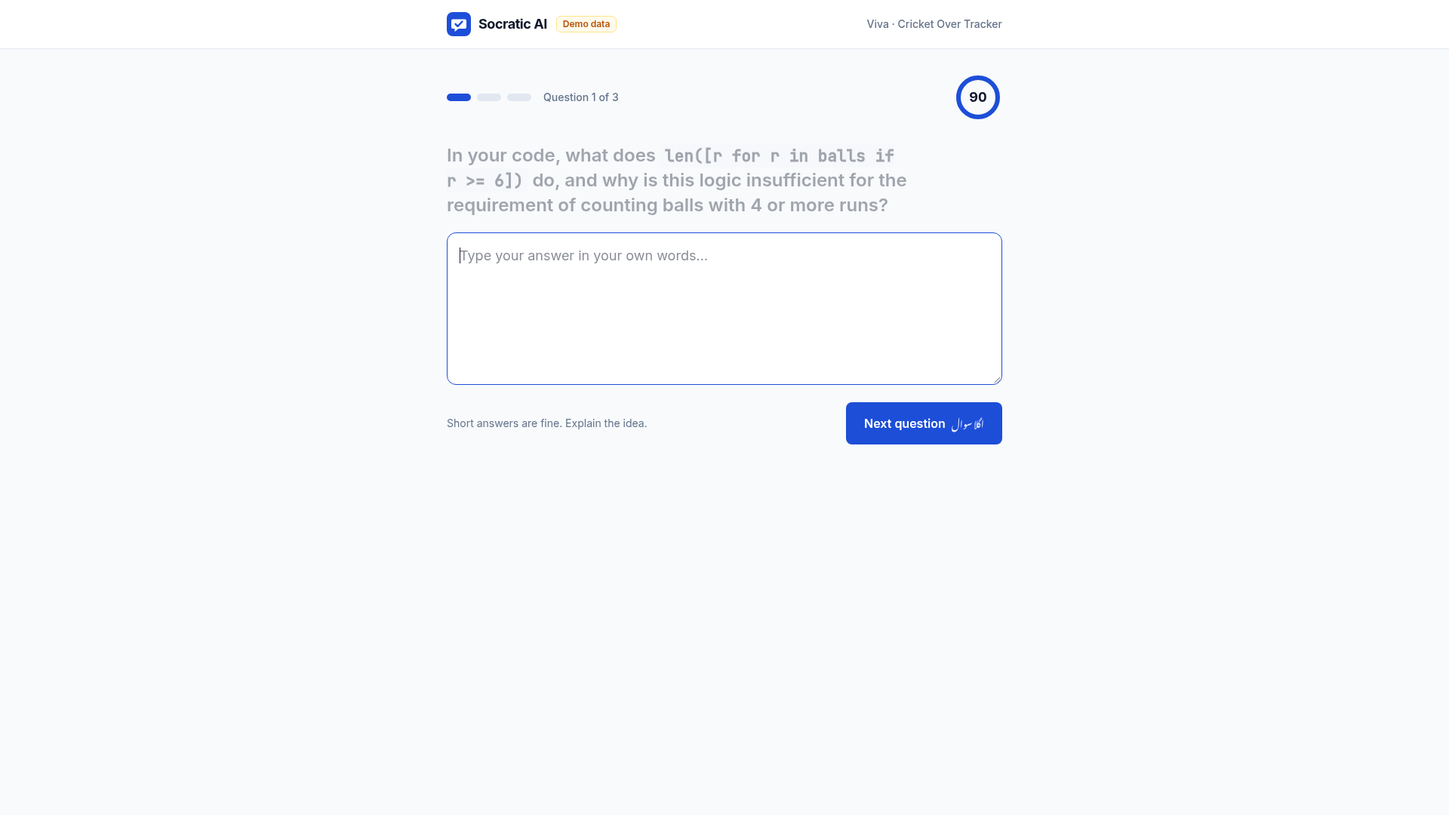
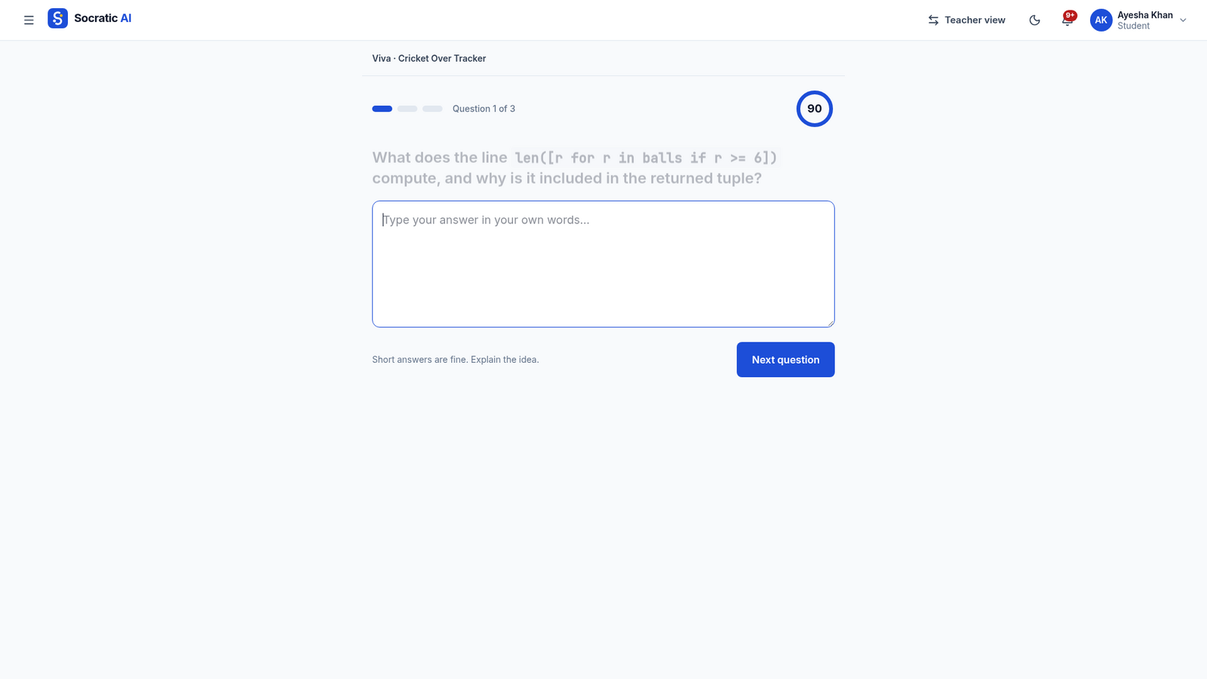
README: rewritten for the current platform, with fresh screenshots
Covers the lecture slides, Study with Ustaad, the new navigation and dark mode,
how it works and how it's tested; the fictional-data disclosure now lives here.
Landing screenshots retaken with the new instructors.

diff --git a/README.md b/README.md
@@ -1,6 +1,12 @@
-# Socratic AI: Strong Fundamentals in the Age of AI
+<p align="center"><img src="docs/brand/socratic-ai-mark.svg" width="72" height="72" alt="Socratic AI logo"></p>
 
-**Live demo: https://socratic-ai-pk.vercel.app** · no sign-up · [health check](https://socratic-ai-pk.vercel.app/api/health)
+<h1 align="center">Socratic AI</h1>
+<p align="center"><b>Strong Fundamentals in the Age of AI</b></p>
+
+<p align="center">
+  <b><a href="https://socratic-ai-pk.vercel.app">socratic-ai-pk.vercel.app</a></b> · open it and click <b>Try as student</b> or <b>Try as teacher</b>, no sign-up ·
+  <a href="https://socratic-ai-pk.vercel.app/api/health">live health check</a>
+</p>
 
 One organized learning platform for students and teachers: courses, weekly material, assignments, coding labs, quizzes and marks in one place, with the AI mentor **Ustaad** making sure every mark reflects real understanding.
 
@@ -12,89 +18,68 @@ Built for the **Capital Youth Expo 2026 Hackathon (04-HK), Track 1: Education**,
 
 ---
 
-## Try it in 60 seconds
+## A tour in 60 seconds
 
-1. Open **https://socratic-ai-pk.vercel.app** and click **Try as student**. You get your own private copy of a demo institution in about a second, as Ayesha, a computer science student with a full semester.
-2. Her home page brings every course together: what's due next across all courses, recently marked work, course progress and news from every teacher.
-3. Open a course (say **Data Mining**) to read the week's notes, then open a lab. Try pasting code (it's blocked, and the platform tells you why), click **Run my code**, and ask **Ustaad** for a hint.
-4. Click **Submit**: the hidden tests run, then Ustaad asks **3 timed questions about your own work**. Try a **timed quiz** or a **written answer** too: every task is solved live in the platform, nothing is uploaded.
-5. Or start with **Try as teacher**: courses, gradebook, announcements, an assignment builder, and a report for every submission.
+1. Open **https://socratic-ai-pk.vercel.app** and click **Try as student**. In about a second you're Ayesha, a computer science student with five courses and a semester's work.
+2. **Home** shows only what matters today: a to-do list by due date across every course, and notifications (new work, marks, announcements). Every course is one click away in the sidebar under **My courses**.
+3. Open **Data Mining → Lectures → Lecture 4**. The lecture opens with the teacher's own slide deck. Ask **Study with Ustaad** to *explain this slide*: it reads the slide on screen and answers in English or Roman Urdu.
+4. Open a lab. Pasting is blocked (and the page says why), **Run my code** runs Python in your browser, and Ustaad gives hints and questions, never answers. Drag the edge of Ustaad's panel to make it wider.
+5. **Submit**: hidden tests run, then Ustaad asks **3 timed questions about your own code**. Try a **timed quiz** or a **written answer** too.
+6. Switch to **Teacher view** (top bar): courses, a gradebook, an assignment builder, and for every submission a report with a replay of how the work was made, flags in plain words and the viva transcript.
 
-Everything in the demo (the institution, people and their work) is fictional and labelled **Demo data**. Classmates' past submissions come from **simulated students** (strong, struggling and copying personas) who worked through the real platform: the platform's own viva questions, AI scoring and flag rules produced every score and flag you see. They show how the platform behaves; they are not measured results.
+The top bar also has a **light/dark** switch, and the sidebar folds into an icon rail.
 
 ---
 
 ## The problem
 
-- **Courses are scattered.** A typical Pakistani university course lives in a WhatsApp group, an LMS that only holds PDFs, emailed assignments, a separate quiz tool and a teacher's spreadsheet of marks. Students miss deadlines and announcements; teachers repeat the same work in five places.
-- **AI writes the homework.** A student can paste any lab into ChatGPT and submit a polished answer in minutes. The teacher sees the same output whether the student learned or not.
-- **AI detectors are unreliable and unfair.** A Stanford study found that seven popular detectors flagged, on average, 61% of essays by non-native English writers as AI-generated ([Stanford HAI](https://hai.stanford.edu/news/ai-detectors-biased-against-non-native-english-writers)). Almost every Pakistani student writes in a second language.
-- **HEC's draft policy** says students must not present AI work as their own, and that no student may be punished on a detection report alone ([HEC framework](https://www.hec.gov.pk//english/policies/Pages/Framework-GenAI.aspx)).
-- **Vivas work but don't scale.** Asking students to explain their work is the fix teachers trust, but a teacher with 180 students can't run 180 vivas a week.
+- **A course lives in five places.** In a typical Pakistani university course, announcements are in a WhatsApp group, slides are PDFs on an LMS, assignments are emailed, quizzes are on Google Forms and marks are in the teacher's Excel sheet. Students miss deadlines; teachers repeat the same work everywhere.
+- **AI can do the homework.** Any lab can be pasted into a chatbot and submitted in minutes. The teacher sees the same polished output whether the student learned or not.
+- **AI detectors don't solve it.** A Stanford study found seven popular detectors flagged, on average, 61% of essays by non-native English writers as AI-generated ([Stanford HAI](https://hai.stanford.edu/news/ai-detectors-biased-against-non-native-english-writers)). Almost every Pakistani student writes in a second language.
+- **HEC's framework** asks that students don't present AI work as their own, and that no student is punished on a detection report alone ([HEC framework](https://www.hec.gov.pk//english/policies/Pages/Framework-GenAI.aspx)).
+- **Vivas work but don't scale.** Asking a student to explain their work is the check teachers trust, but a teacher with 180 students can't hold 180 vivas a week.
 
-## What's new: one organized platform where marks mean understanding
+## Our approach
 
-**Everything in one place.** Weekly notes, coding labs (Python and JavaScript run in the browser), written answers, timed quizzes, marks, a gradebook and announcements, for every course, on one home page per student and per teacher.
+**One platform for the whole course.** Lectures with the teacher's own slides, notes and an AI tutor; coding labs (Python and JavaScript run in the browser); written answers; timed quizzes; announcements; marks and a gradebook. One home page per student and per teacher.
 
-**Marks that reflect understanding, without detecting AI.** Socratic AI stacks three layers. Any one can be beaten; beating all three is more work than doing the assignment honestly.
-
+**Marks that reflect understanding, without guessing who used AI.** Instead of detecting AI text, Socratic AI checks learning directly, in three layers. Any one can be beaten; beating all three is more work than doing the assignment honestly.
 
 | Layer | What it does | What it catches |
 | --- | --- | --- |
-| **Controlled workspace** | Paste and drag-drop are blocked (with an explanation), the task can't be copied, each student gets their own version of the question | Copy-paste, shared answers |
-| **Process evidence** | Every edit, run, error and time away from the page is recorded in an append-only log the student can't edit; the teacher can replay it | Answers retyped from a phone: one steady burst, no runs, often after a long absence |
+| **A focused workspace** | Paste and drag-drop are blocked (with an explanation), the task can't be copied, and each student can get their own version of the question | Copy-paste, shared answers |
+| **How the work was made** | Every edit, run, error and time away from the page goes into an append-only record the student can't edit; the teacher can replay it | Answers retyped from a phone: one steady burst, no runs, often after a long absence |
 | **A viva on the student's own work** | After submitting, Ustaad asks 3 timed questions generated from **that student's own code or text**: explain a line, predict an output, describe a change | Work the student doesn't understand |
 
-What makes the viva hard to game:
+What makes the viva fair and hard to game:
 
-- **Ground truth, not opinion.** For the "predict the output" question, the student's own code is run on the new input after they answer. A wrong prediction can't score high, whatever the AI scorer thinks.
-- **Fair to second-language writers.** The scorer is instructed to grade ideas, never English. Roman Urdu answers count fully.
-- **The teacher decides.** Flags are plain sentences ("Left the page for 3 min 10 s, then typed 220 characters within a minute of coming back"), each with a **Show me** link into the replay. There's no AI-text detector, no webcam and no automatic penalty.
+- **Ground truth, not opinion.** For "predict the output", the student's own code is run on the new input after they answer, so a wrong prediction can't score high.
+- **Ideas, not English.** The scorer grades understanding, never grammar. Roman Urdu answers count fully.
+- **The teacher decides.** Flags are plain sentences ("Left the page for 3 min 10 s, then typed 220 characters within a minute of coming back"), each with **Show me**, which jumps to that moment in the replay. No AI-text detector, no webcam, no automatic penalty.
+
+**Ustaad teaches, it doesn't hand out answers.** In a lab it replies with a hint and one question, and never writes solution code. On lectures it explains slides, gives local examples (chai, cricket, rickshaws) and makes practice questions. It matches the student's language: English or Roman Urdu.
 
 ## Screens
 
-| Student home: every course in one place | A course: weekly notes and announcements |
+| Student home: to-do and notifications from every course | A lecture with the teacher's own slides and Ustaad |
 | --- | --- |
-| ![Student home with due-next list, recently marked work, course cards and news](docs/screenshots/student-home.png) | ![Course page with weekly notes](docs/screenshots/course-page.png) |
+| ![Student home with a to-do list by date and notifications](docs/screenshots/student-home.png) | ![Data Mining lecture showing the original slide and Ustaad explaining it](docs/screenshots/lecture-slides.png) |
 
-| Timed quiz | |
+| A coding lab with Ustaad | The viva on the student's own code |
 | --- | --- |
-| ![Timed quiz question with timer ring](docs/screenshots/quiz.png) | |
+| ![Workspace with the journey stepper, code editor and Ustaad](docs/screenshots/workspace.png) | ![Viva question with a timer ring](docs/screenshots/viva.png) |
 
-| Student workspace | The viva |
+| Teacher's report: replay, flags and viva | Dark mode |
 | --- | --- |
-| ![Student workspace with journey stepper, code editor and Ustaad](docs/screenshots/workspace.png) | ![Viva question with timer ring](docs/screenshots/viva.png) |
+| ![Teacher report with stats, flags and decision buttons](docs/screenshots/report.png) | ![Student home in dark mode with the sidebar folded](docs/screenshots/dark-mode.png) |
 
-| Teacher's integrity report | Assignment builder: rules |
-| --- | --- |
-| ![Integrity report with replay, flags and viva transcript](docs/screenshots/report.png) | ![Builder rules step with toggle cards](docs/screenshots/builder-rules.png) |
+## Who it's for, and why it can run at scale
 
-## How Socratic AI meets the judging criteria
-
-Using the rulebook's own words:
-
-| Criterion | Where to see it |
-| --- | --- |
-| **Innovation & Creativity**: *novelty of the approach and creativity in addressing the track's problem* | One organized platform for the whole course, where marks verify learning instead of detecting AI: process replay plus an automated viva on each student's own work, with ground-truth checks by running the student's code. Per-student question variants. No detector, no webcam |
-| **Technical Execution & Functionality**: *working status of the live prototype, system stability, and effective integration of code/AI/APIs* | The live link runs end to end: Python (Pyodide) and JavaScript run in Web Workers with a 5 s safety stop; an append-only event log enforced by database triggers; Gemini → Groq → OpenRouter fallback with schema-validated JSON; hidden tests whose answers never reach the browser; private demo sandboxes; 113 unit tests and a 40-step browser test run against production |
-| **Real-World Impact & Viability**: *practical usefulness, scalability, and potential to solve real community, campus, or industry needs* | Replaces the WhatsApp-group-plus-PDFs-plus-spreadsheet routine with one platform; ten real courses (Data Mining, Information Retrieval, NLP, Compiler Construction, HCI, OOP, DSA and more) built from the team's own lecture material; automates a practice teachers already trust (the viva); aligned with HEC's rule against detector-only punishment; runs in any browser on lab PCs that universities already have; code runs on the student's machine, so the server stays cheap. Measured results: see below |
-| **Presentation, UI/UX & Pitch Clarity**: *user interface quality, clarity of the live demonstration, and effectiveness of the 5-minute pitch* | Designed with Norman, Nielsen and Shneiderman: a five-step journey stepper, one primary action per screen, buttons that say what will happen, inline explanations when something is blocked, a consistent colour language (always with an icon and words), and a landing page that explains itself in five seconds |
-
-## Measured results
-
-None yet. Results will be reported here only from real students and teachers using the platform, exactly as measured. The demo class's scores come from simulated students and are not results.
-
-## Features
-
-**Courses in the demo** (notes, assignments and quizzes written by the team from their own lecture material): Programming Fundamentals, Data Structures and Algorithms, Object-Oriented Programming, Data Mining, Information Storage and Retrieval, Natural Language Processing, Compiler Construction, Human-Computer Interaction, Web Development and Communication Skills.
-
-**Students:** a home page that brings every course together (due next across all courses, recently marked, course progress and averages, news from every teacher) · weekly notes with worked examples · **timed quizzes** (one question at a time, a different draw and order for every student, fullscreen with a warning when left) · coding labs in **Python and JavaScript** and **written answers** · a five-step journey (Understand → Write → Run → Explain → Submit + viva) · paste blocking with explanations · autosave ("Saved 3 s ago") · Ustaad's Socratic hints in English or Roman Urdu · hidden tests · a timed viva · results with "what to revise next" and the teacher's confirmed mark.
-
-**Teachers:** an assignment builder (Task → Rules → Preview as student) with a template library, where expected test answers are computed by running your own solution · rules as toggle cards (paste, order of work, viva length and weighting, per-student variants) · submissions with flagged work first · an integrity report (story timeline, replay, flags with **Show me**, viva transcript with ground-truth checks) · side-by-side comparison · **Looks fine / Talk to student** · confirm or change any mark with a comment · a gradebook with average viva per assignment and CSV export · announcements posted from the course page.
-
-**Real classes:** teachers and students create accounts (passwords stored only as scrypt hashes); teachers create courses and share a 6-character join code; students join with it. Real accounts are kept apart from demo data.
-
-**Demo:** one-click **Try as teacher** and **Try as student**, each a private sandbox · **See what your teacher sees** · **Start over** · a nightly reset.
+- **Built around Pakistani classrooms.** Ten courses in the live platform (Programming Fundamentals, DSA, OOP, Data Mining, Information Retrieval, NLP, Compiler Construction, HCI, Web Development and Communication Skills), written by the team from their own university lecture material, with local examples throughout. Data Mining and DSA open with their original slide decks.
+- **Works on what campuses already have.** Any browser on a lab PC or laptop, nothing to install. Students can read lectures, take quizzes, write answers and talk to Ustaad on a phone.
+- **Cheap to run.** Students' code runs on their own machine (Pyodide and JavaScript in Web Workers), so the server never executes code. The AI model is a fast, low-cost tier with automatic fallbacks, AI calls are rate-limited, and pages are small enough for normal 4G.
+- **Real classes, not just a showcase.** Teachers and students create accounts; a teacher creates a course and shares a 6-character join code. Real accounts are kept completely apart from the sample institution.
+- **Aligned with HEC.** It never punishes on a detector score; it gives the teacher evidence and a viva, and the teacher decides.
 
 ## How it works
 
@@ -103,48 +88,56 @@ flowchart LR
   subgraph Browser
     W[Workspace: CodeMirror<br/>paste blocked] -->|events every 10 s| API
     W --> R[Pyodide / JS<br/>Web Worker runner]
+    L[Lecture viewer] -->|signed links| S[(Supabase Storage<br/>private slide pages)]
     V[Viva screen] --> API
     T[Teacher report<br/>replay + flags] --> API
   end
-  API[Express API<br/>one Vercel Function, Mumbai] --> DB[(Supabase Postgres<br/>append-only event log<br/>RLS: server-only access)]
+  API[Express API<br/>one Vercel Function, Mumbai] --> DB[(Supabase Postgres<br/>append-only event log<br/>server-only access)]
   API --> LLM{{server/llm.ts}}
   LLM --> G[Gemini Flash-Lite]
   LLM -.429 / 5xx / timeout.-> Q[Groq]
   LLM -.fallback.-> O[OpenRouter]
 ```
 
-- **Integrity of evidence.** Process events are batched every 10 s, timestamped by the database, idempotent on `(submission, seq)` and append-only: a trigger refuses every update, and refuses deletes outside the nightly reset. The browser can't read the database at all; every table is locked to the server.
-- **Hidden tests.** Test *inputs* reach the browser only after the code is locked at Submit. The browser runs them; the **server** compares the results with expected answers that never leave it.
-- **AI.** `server/llm.ts` is the only module that calls a model. Every reply is validated against a schema; on failure it retries, then falls back to the next provider; if all providers are down, the viva builds questions from real lines of the student's code. Student content is fenced as data, so instructions hidden in code comments are ignored.
-- **Demo sandboxes.** Each "Try as…" click copies the seed institution into a private sandbox in about 0.25 s (heavy event logs are shared, not copied), with dates shifted so deadlines always look current.
+- **Evidence that can't be edited.** Process events are batched every 10 s, timestamped by the server, idempotent on `(submission, seq)` and append-only: a database trigger refuses every update. The browser can't read the database at all; every table is locked to the server, which checks the caller's role on every request.
+- **Hidden tests whose answers never leave the server.** Test inputs reach the browser only after the code is locked at Submit; the browser runs them and the server compares the outputs with expected answers it keeps to itself.
+- **AI that degrades gracefully.** `server/llm.ts` is the only module that calls a model. Every reply is validated against a schema; on failure it retries, then moves to the next provider (Gemini → Groq → OpenRouter). If every provider is down, the viva builds questions from real lines of the student's code. Student content is fenced as data, so instructions hidden in code comments are ignored.
+- **Lecture slides stay private.** The teacher's decks are converted to page images and stored in a private bucket; the API hands course members short-lived signed links, and passes the text of the slide on screen to Ustaad.
+- **A private copy for every visitor.** Each "Try as…" click copies the sample institution into its own sandbox in well under a second (heavy event logs are shared, not copied), with dates shifted so deadlines always look current. Visitors never see each other's changes; a nightly job clears old copies.
 
 Formats and rules: [`docs/event-format.md`](docs/event-format.md) · full specification: [`docs/proposal.md`](docs/proposal.md).
 
-## Integrity without surveillance: the honest limits
+## Testing and reliability
 
-- **A second phone can't be blocked.** It can be made useless: retyping leaves a fingerprint in the replay, variants make shared answers wrong, and the timed viva on the student's own work carries the marks.
-- **Someone else doing the work and the viva** while logged in as the student needs identity checks; high-stakes exams belong in a lab with an invigilator.
+- **119 unit tests** (`npm test`): integrity flags (an honest session raises none; a retyped one raises the right ones), grading, per-variant marking, viva safety checks, event validation and replay, session cookies, the AI fallback chain, slide decks, name formatting, seed pacing and expected-value computation.
+- **A full browser test** (`npm run smoke:ui`, headless Chrome, fails on any console error): landing page, both roles, the sidebar and theme, the Python and JavaScript runners (including an infinite loop stopped safely), a written task, paste blocking, autosave, Ustaad, submit, hidden tests, viva, the teacher's report, decision and mark, lectures and practice questions, a timed quiz, the gradebook, creating a course and publishing an assignment.
+- **Live health check** at [`/api/health`](https://socratic-ai-pk.vercel.app/api/health): database and each AI provider, cached and cheap.
+- **End-to-end AI check** (`npm run e2e:viva`): simulated honest and copying students through the real API and AI. An engineering check only.
+
+## Honest limits
+
+- **A second phone can't be blocked**, but it can be made useless: retyping leaves a fingerprint in the replay, variants make shared answers wrong, and the timed viva on the student's own work carries the marks.
+- **Someone else doing both the work and the viva** while logged in as the student needs identity checks; high-stakes exams belong in a lab with an invigilator.
 - **Flags can be wrong.** That's why they are evidence for the teacher, never verdicts.
+
+## About the sample institution
+
+The institution you enter with **Try as student / Try as teacher** ("Pothohar Institute of Computing"), its people and their work are fictional. Classmates' past submissions come from **simulated students** (strong, struggling and copying personas) who worked through the real platform: the platform's own viva questions, AI scoring and flag rules produced every score and flag you see. They show how the platform behaves; they are not measured results. Measured results will be reported only from real students and teachers, exactly as measured.
 
 ## Run it locally
 
 ```bash
 npm install                     # also installs the pre-commit secret check
-cp .env.example .env.local      # fill in keys (the app runs without AI keys; AI features then show a friendly message)
+cp .env.example .env.local      # fill in keys (runs without AI keys; AI features then show a friendly message)
 npm run dev                     # http://localhost:3000
 npm run lint && npm test && npm run build
 npm run smoke:ui -- http://localhost:3000     # headless Chrome: the full student and teacher journey
+npx tsx scripts/lecture-slides.ts             # operators: turn lecture-material/ slides into lecture pages (preview project)
 ```
 
 ## Deployment
 
-One Vercel project (Hobby) serves the Vite front end from its CDN and the Express API as a single function in Mumbai (`bom1`), next to two Supabase Postgres projects (production and preview). Every push to `main` deploys; every pull request gets a preview link. A daily cron (`/api/cron/reset-demo`, 03:00 PKT, secret-protected) clears expired demo sandboxes. Keys live only in Vercel; a pre-commit hook and GitHub push protection block secrets from the repository.
-
-## Testing
-
-- **Unit tests** (`npm test`, 49): integrity flags (an honest session raises none; a retyped one raises the right four), grading, per-variant marking, viva safety checks, event validation and replay, session cookies, the AI fallback chain, and expected-value computation.
-- **Browser test** (`npm run smoke:ui`, 36 steps, fails on any console error): the student journey (JavaScript and Python labs, a written task, paste blocking, autosave, Ustaad, submit, hidden tests, viva, results), then the teacher's report, decision, mark, gradebook and builder.
-- **End-to-end AI check** (`npm run e2e:viva`): simulated honest and copying students through the real API and AI. This is an engineering check only, never presented as a result.
+One Vercel project serves the Vite front end from its CDN and the Express API as a single function in Mumbai (`bom1`), next to two Supabase projects in Mumbai (production and preview: Postgres and Storage). Every push to `main` deploys; every pull request gets a preview link. A daily cron (`/api/cron/reset-demo`, 03:00 PKT, secret-protected) clears expired sandboxes. Keys live only in Vercel; a pre-commit hook and GitHub push protection keep secrets out of the repository.
 
 ## Third-party APIs and libraries
 
@@ -154,6 +147,7 @@ Every external service, model and library used in this repository is listed here
 | --- | --- | --- |
 | [Vercel](https://vercel.com) | Hosting: CDN for the front end, a serverless function for the API, cron | Hobby plan |
 | [Supabase](https://supabase.com) | Postgres database and authentication | Free plan |
+| [Supabase Storage](https://supabase.com/docs/guides/storage) | Private bucket for lecture slide pages, served to course members through short-lived signed links | Free plan |
 | [Google Gemini API](https://ai.google.dev) (`gemini-3.1-flash-lite`) | Primary AI model for Ustaad and the viva | Google AI Studio free tier |
 | [Groq API](https://groq.com) (`openai/gpt-oss-120b`) | First automatic fallback AI model | Groq free tier |
 | [OpenRouter](https://openrouter.ai) (`google/gemini-3.1-flash-lite`) | Second automatic fallback AI model | OpenRouter terms |
@@ -164,16 +158,15 @@ Every external service, model and library used in this repository is listed here
 | [tsx](https://tsx.is) | Runs TypeScript in local development | MIT |
 | [Vitest](https://vitest.dev) | Unit tests | MIT |
 | [Zod](https://zod.dev) | Validates process events and AI responses | MIT |
-| [Tailwind CSS](https://tailwindcss.com) 4 | Styling and design tokens | MIT |
+| [Tailwind CSS](https://tailwindcss.com) 4 | Styling and design tokens (light and dark) | MIT |
 | [React Router](https://reactrouter.com) | Page routing | MIT |
 | [Lucide](https://lucide.dev) (`lucide-react`) | Icons | ISC |
 | [CodeMirror 6](https://codemirror.net) (incl. `@codemirror/language`, and `@lezer/highlight` from the same project) | Code editor in the student workspace (with paste blocking); syntax colours that follow light and dark mode | MIT |
 | [Motion](https://motion.dev) | Small feedback animations (a step completing, a result appearing) | MIT |
 | [Pyodide](https://pyodide.org) (jsDelivr CDN in the browser; npm for the seed script) | Runs students' Python in a Web Worker; computes hidden-test answers when seeding | MPL-2.0 |
 | [LibreOffice](https://www.libreoffice.org), [Poppler](https://poppler.freedesktop.org) and [ImageMagick](https://imagemagick.org) (operator tools, not shipped) | `scripts/lecture-slides.ts`: turn the teachers' PowerPoint/PDF slides into page images and text for the lecture viewer | MPL-2.0 / GPL-2.0 / ImageMagick License |
-| [Supabase Storage](https://supabase.com/docs/guides/storage) | Private bucket for lecture slide pages, served to signed-in course members through short-lived signed links | (service) |
 | [Inter](https://rsms.me/inter/), [JetBrains Mono](https://www.jetbrains.com/lp/mono/) (Google Fonts) | Interface and code fonts | SIL Open Font License |
-| [Puppeteer](https://pptr.dev) (`puppeteer-core`) | Browser smoke tests (development only) | Apache-2.0 |
+| [Puppeteer](https://pptr.dev) (`puppeteer-core`) | Browser smoke tests and screenshots (development only) | Apache-2.0 |
 | [Supabase CLI](https://supabase.com/docs/guides/cli) | Applies database migrations and seeds (development tool, run with `npx`) | MIT |
 
 ### AI coding assistants
@@ -185,7 +178,7 @@ The rules allow AI coding assistants as long as they are disclosed. We use:
 
 ## Originality
 
-All application code was written between Nov 22 and Nov 28, 2026, inside the official build window (Nov 16–28). The commit history and the merged pull requests show how it was built, step by step.
+All application code was written between Nov 22 and Nov 28, 2026, inside the official build window (Nov 16–28). The commit history and the merged pull requests show how it was built, step by step. The logo (`docs/brand/`) was designed for this project.
 
 ## Team
 
